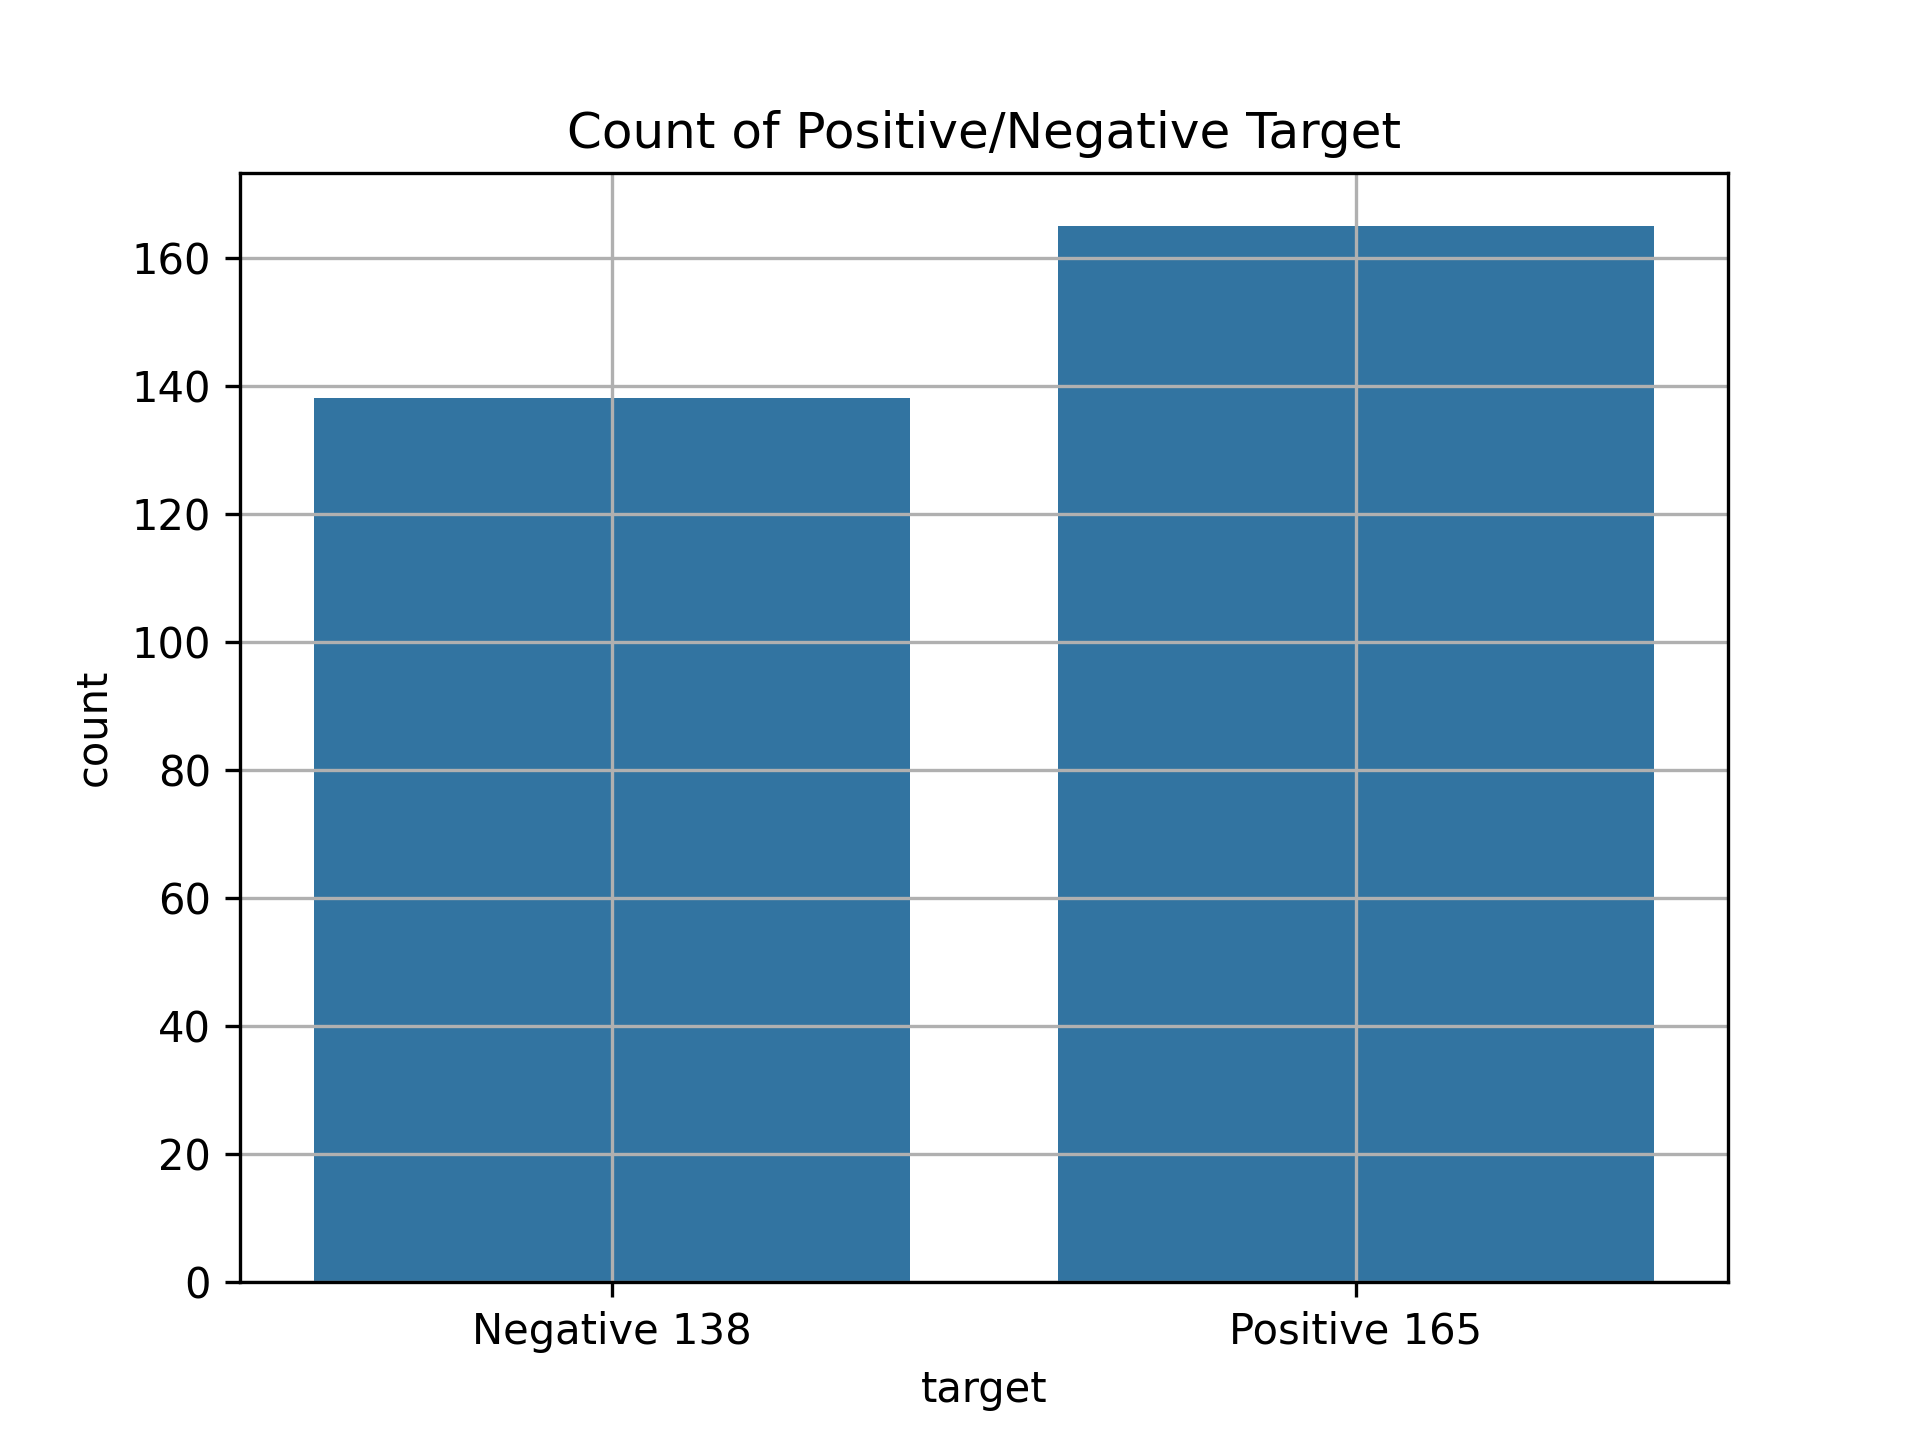
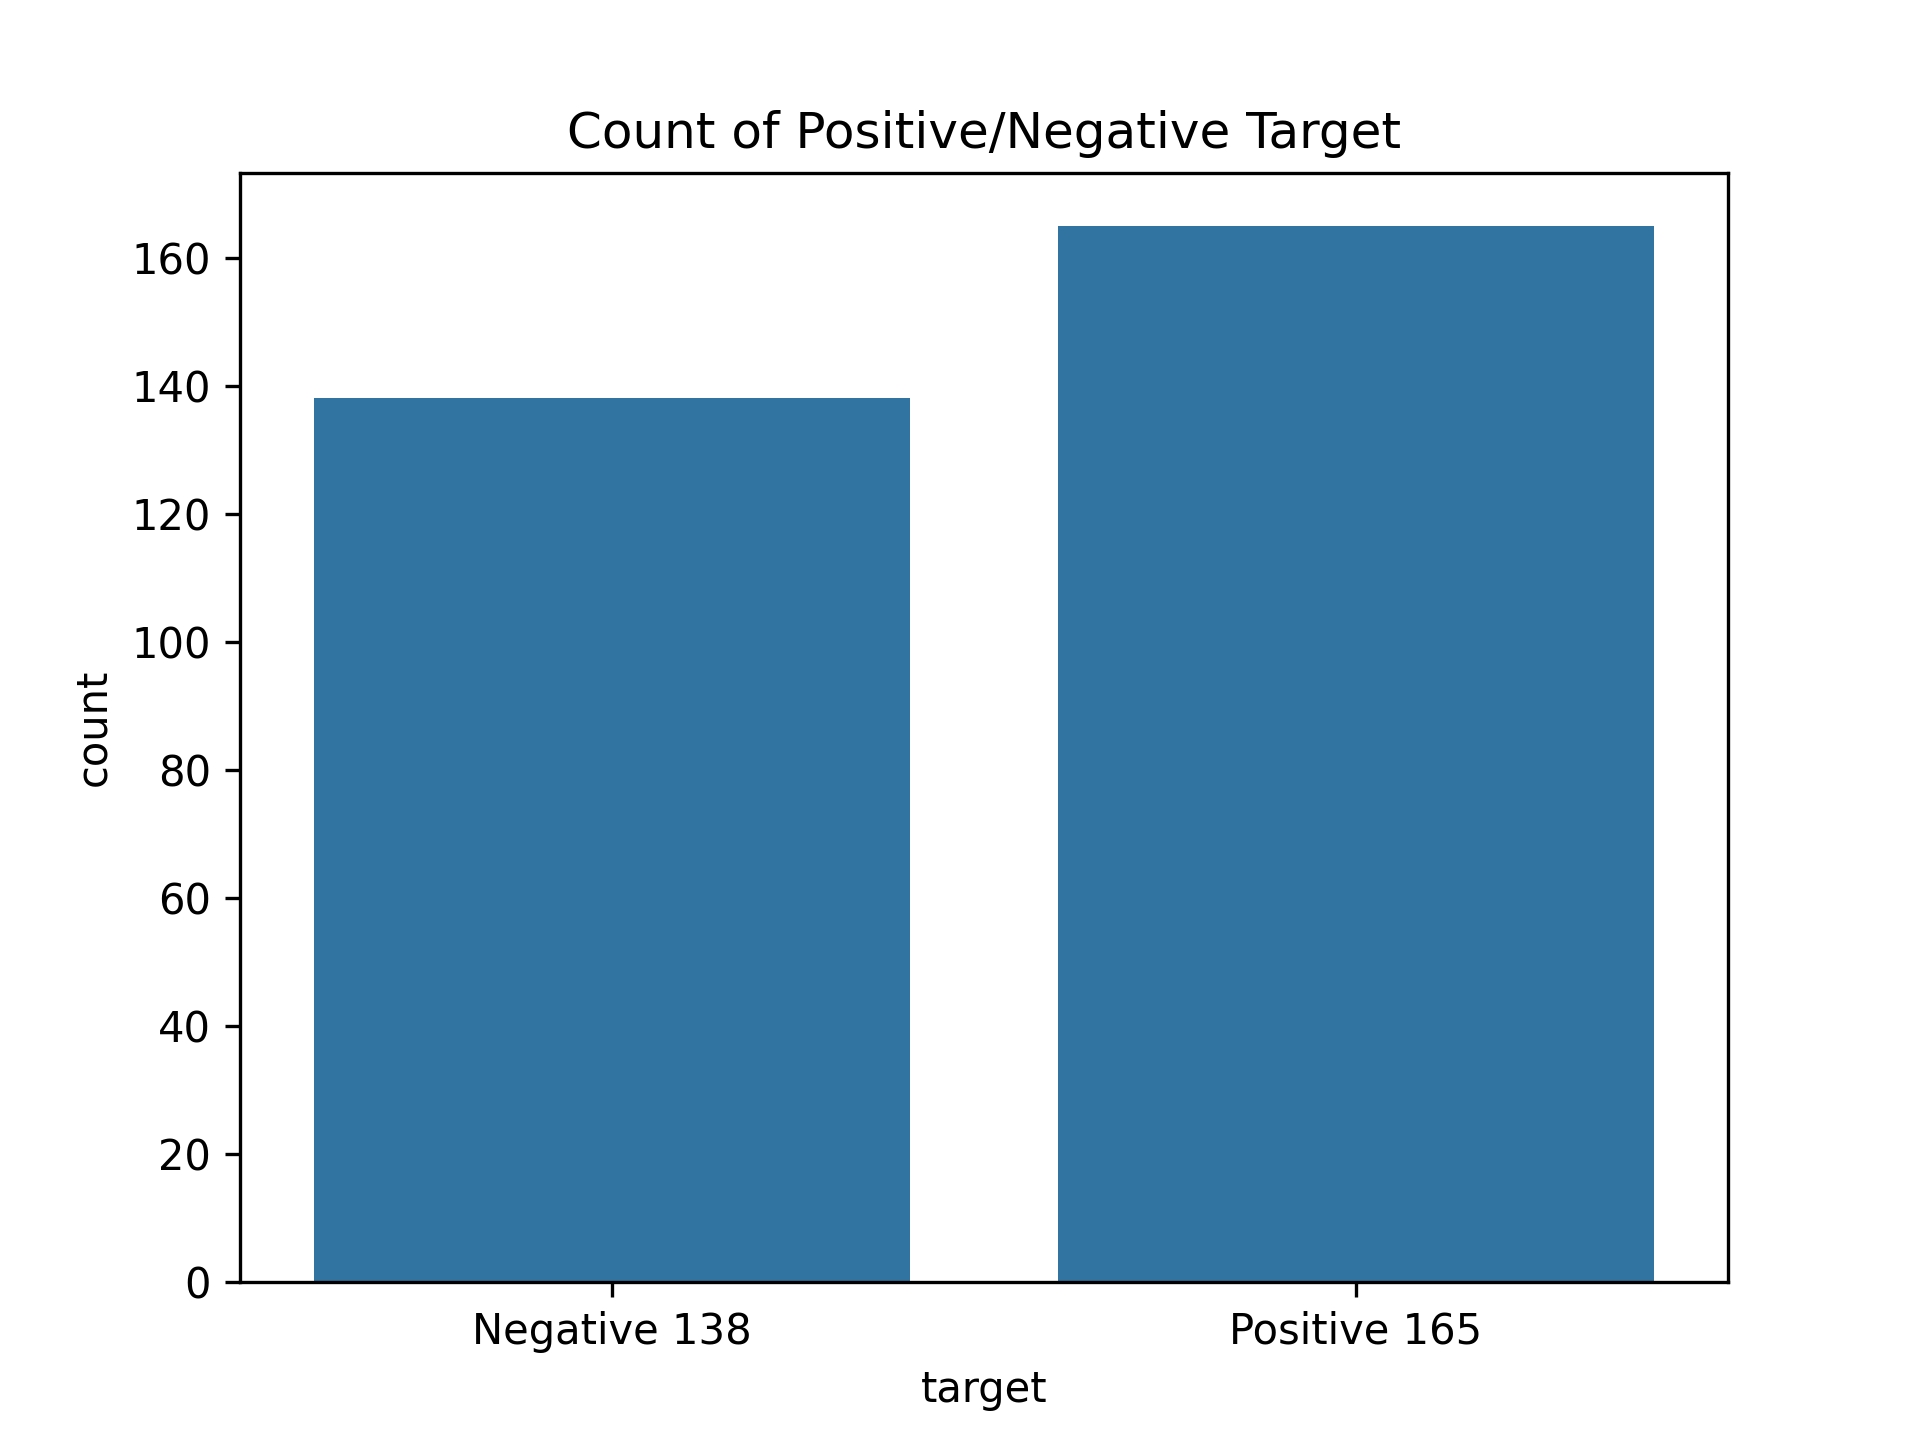
add Cross Validation

diff --git a/app/data.py b/app/data.py
@@ -26,6 +26,6 @@ def data_info():
     sns.countplot(data=data_hs, x='target')
     plt.title("Count of Positive/Negative Target")
     plt.xticks(ticks=[0, 1], labels=['Negative '+str(target_count[0]), 'Positive '+ str(target_count[1])])
-    plt.grid()
+    # plt.grid(off0)
     plt.savefig('output/countplot_target.png', dpi=300)
     return data_hs
